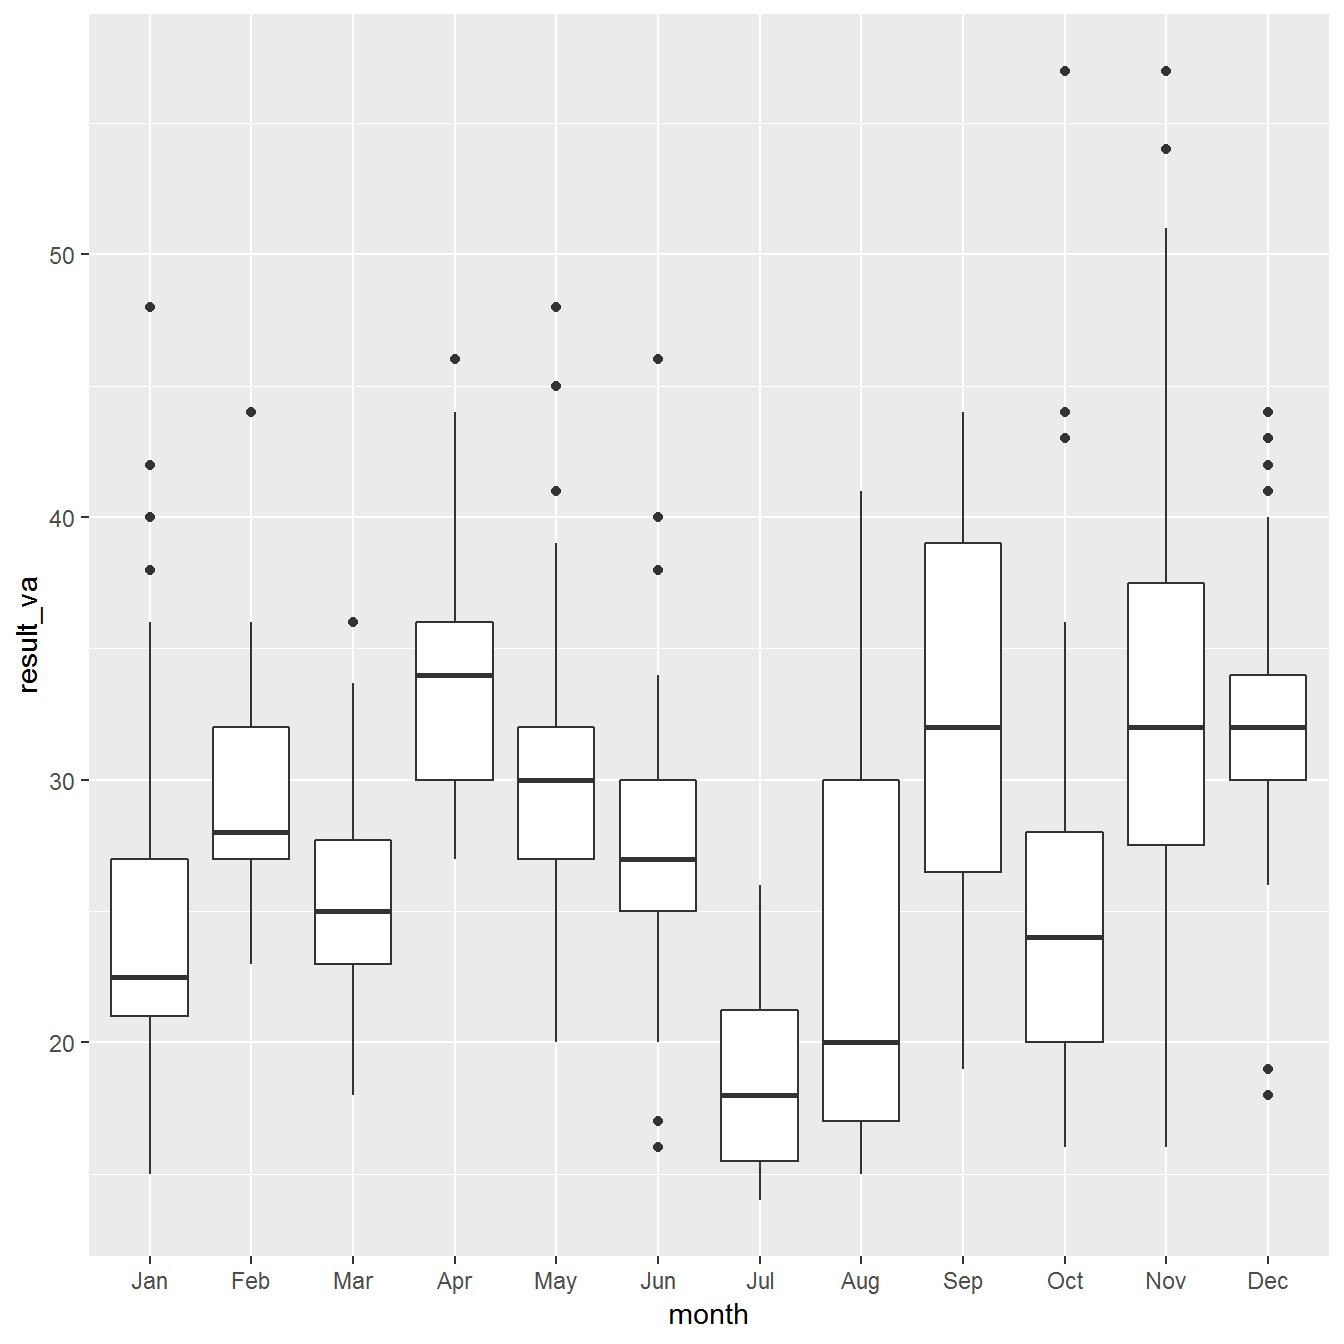
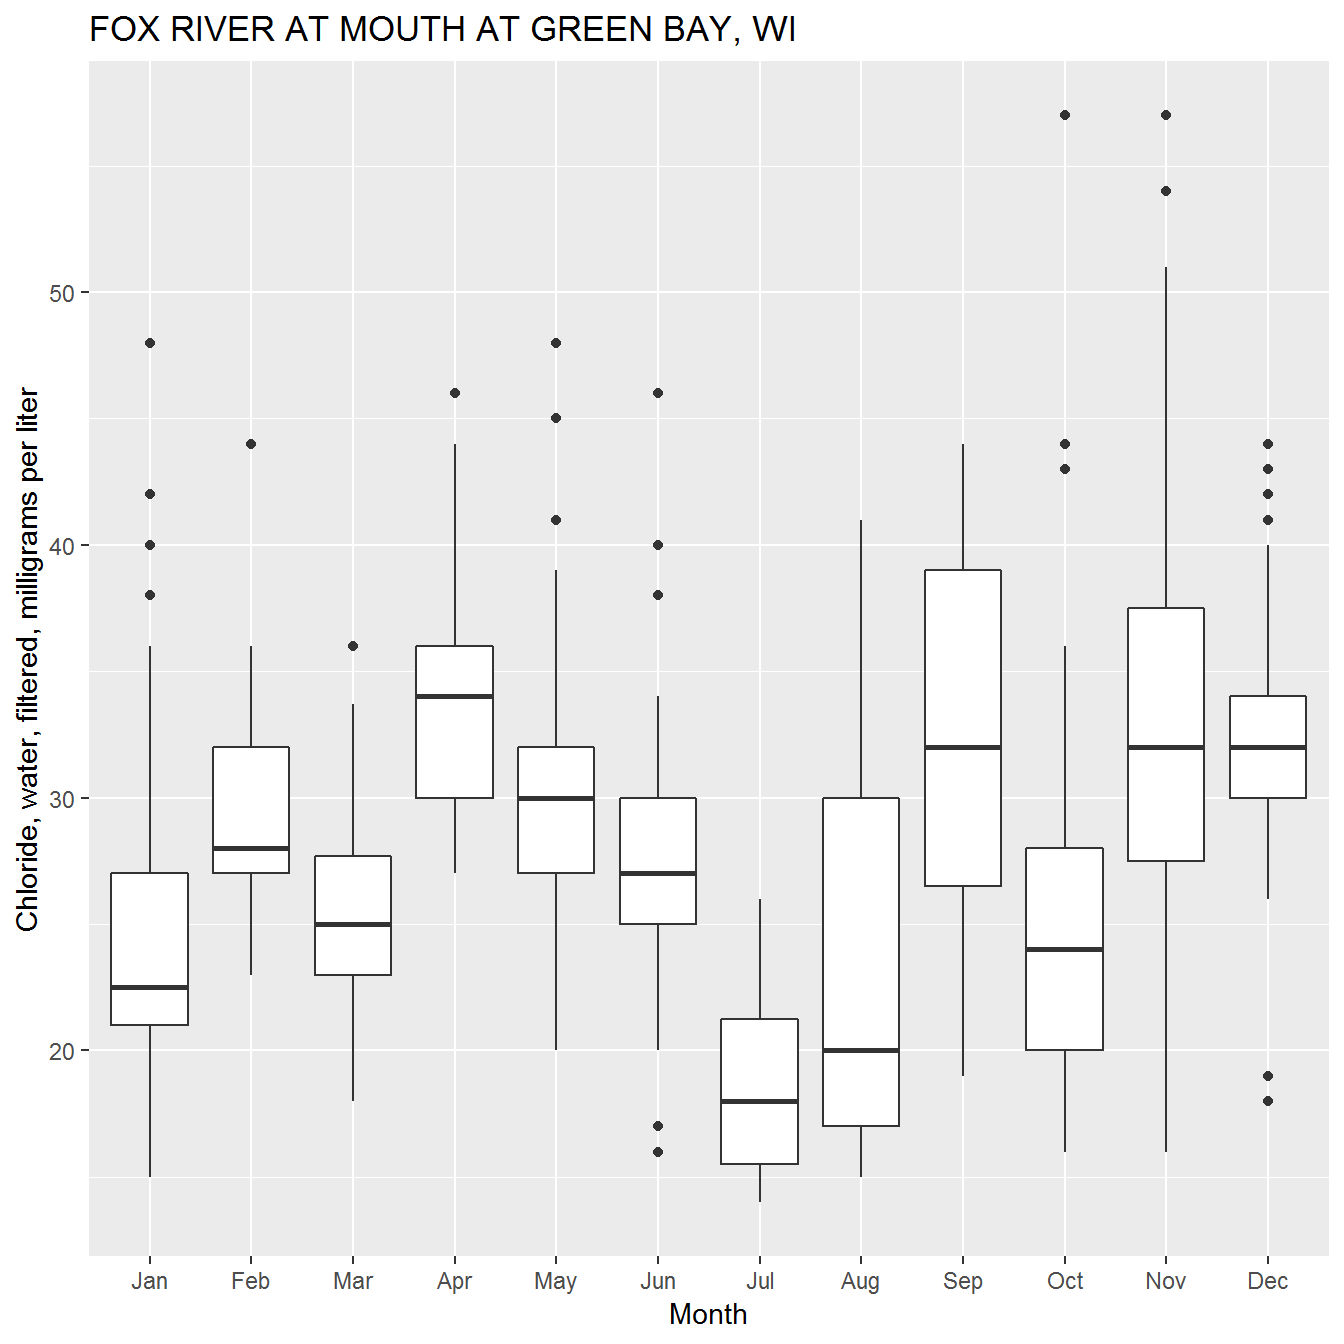
More tricks

diff --git a/content/boxplot_defs.md b/content/boxplot_defs.md
@@ -38,45 +38,33 @@ chloride <- readNWISqw("04085139", "00940")
 chloride$month <- month.abb[as.numeric(format(chloride$sample_dt, "%m"))]
 chloride$month <- factor(chloride$month, labels = month.abb)
 
-ggplot() +
-  geom_boxplot(data = chloride, aes(x = month, y = result_va))
+parameter_name <- attr(chloride, "variableInfo")[["parameter_nm"]]
+site_name <- attr(chloride, "siteInfo")[["station_nm"]]
+
+ggplot(data = chloride, 
+       aes(x = month, y = result_va)) +
+  geom_boxplot() +
+  xlab("Month") +
+  ylab(parameter_name) +
+  labs(title = site_name)
 ```
 
 <img src='/static/boxplots/getChoride-1.png'/ title='TODO' alt='TODO' />
 
-Now I'll use some code that will be described below to create the same plot, but getting closer to USGS style guidelines including a boxplot legend:
+Is that graph great? YES! But, there are times that certain style guidelines are mandated. For example, in the USGS, we have strict graphical requirements for official USGS reports. This blog is *not* going to get you perfect complience with those standards, but it will get a bit closer. So, let's use some code that will be described later to create the same plot, but getting closer to USGS style guidelines:
 
 ``` r
 library(cowplot)
-library(dplyr)
-
-counts <- chloride %>%
-  group_by(month) %>%
-  summarize(counts = n())
 
 legend_plot <- ggplot_box_legend()
 
-chloride_plot <- ggplot(data = chloride, aes(x = month, y = result_va)) +
-  stat_boxplot(geom ='errorbar', width = 0.6) +
-  geom_boxplot(width = 0.6, fill = "lightgrey") +
-  geom_text(data = counts, aes(x = month, y = 65, label = counts),
-            size = 3, family = "sans") +
-  expand_limits(y = 0) +
-  theme_bw() + 
+chloride_plot <- ggplot(data = chloride, 
+       aes(x = month, y = result_va)) +
+  boxplot_framework(upper_limit = 70, 
+                    x = chloride$result_va) + 
   xlab("Month") +
-  ylab(attr(chloride, "variableInfo")[["parameter_nm"]]) +
-  labs(title = attr(chloride, "siteInfo")[["station_nm"]]) +
-  scale_y_continuous(sec.axis = dup_axis(label = NULL, 
-                                         name = NULL),
-                     expand = expand_scale(mult = c(0, 0)),
-                     breaks = pretty(c(0,chloride$result_va, 70), n = 5), 
-                     limits = c(0,70)) +
-  theme(panel.grid = element_blank(),
-        text = element_text(family = "sans", size = 9),
-        axis.ticks.length = unit(-0.05, "in"),
-        axis.text.y = element_text(margin=unit(c(0.3,0.3,0.3,0.3), "cm")), 
-        axis.text.x = element_text(margin=unit(c(0.3,0.3,0.3,0.3), "cm")),
-        axis.ticks.x = element_blank()) 
+  ylab(parameter_name) +
+  labs(title = site_name)
 
 plot_grid(chloride_plot, 
           legend_plot,
@@ -192,7 +180,7 @@ Boxplot Visualization
 Let's plot that information, and while we're at it, we can make the function used in the first plot. There is a *lot* of `ggplot2` code to digest here. Most of it is style adjustments to approximate USGS style guidelines and requirements for legends. The `cowplot` package makes it easy to bind two or more `ggplot2` objects. We can make a
 
 ``` r
-ggplot_box_legend <- function(){
+ggplot_box_legend <- function(family = "sans"){
   set.seed(100)
 
   sample_df <- data.frame(parameter = "test",
@@ -205,6 +193,15 @@ ggplot_box_legend <- function(){
   
   ggplot_output <- ggplot2_boxplot(sample_df$values)
   
+  update_geom_defaults("text", 
+                     list(size = 3, 
+                          hjust = 0,
+                          family = family))
+  
+  update_geom_defaults("label", 
+                     list(size = 3, 
+                          hjust = 0,
+                          family = family))
   explain_plot <- ggplot() +
     stat_boxplot(data = sample_df,
                  aes(x = parameter, y=values),
@@ -212,11 +209,11 @@ ggplot_box_legend <- function(){
     geom_boxplot(data = sample_df,
                  aes(x = parameter, y=values), 
                  width = 0.3, fill = "lightgrey") +
-    geom_text(aes(x = 1, y = 950, label = "500"), size = 3) +
+    geom_text(aes(x = 1, y = 950, label = "500"), hjust = 0.5) +
     geom_text(aes(x = 1.17, y = 950,
                   label = "Number of values"),
-              fontface = "bold", hjust = 0, vjust = 0.4, size = 3) +
-    theme_minimal(base_size = 5) +
+              fontface = "bold", vjust = 0.4) +
+    theme_minimal(base_size = 5, base_family = family) +
     geom_segment(aes(x = 2.3, xend = 2.3, 
                      y = ggplot_output[["quartiles"]][1], 
                      yend = ggplot_output[["quartiles"]][3])) +
@@ -228,34 +225,33 @@ ggplot_box_legend <- function(){
                      yend = ggplot_output[["quartiles"]][3])) +
     geom_text(aes(x = 2.4, y = ggplot_output[["quartiles"]][2]), 
               label = "Interquartile\nrange", fontface = "bold",
-              hjust = 0, vjust = 0.4, size = 3) +
+              vjust = 0.4) +
     geom_text(aes(x = c(1.17,1.17), 
                   y = c(ggplot_output[["upper_whisker"]],
                         ggplot_output[["lower_whisker"]]), 
                   label = c("Largest value within 1.5 times\ninterquartile range above\n75th percentile",
                             "Smallest value within 1.5 times\ninterquartile range below\n25th percentile")),
-                  fontface = "bold", hjust = 0, vjust = 0.9, size = 3) +
+                  fontface = "bold", vjust = 0.9) +
     geom_text(aes(x = c(1.17), 
                   y =  ggplot_output[["lower_dots"]], 
                   label = "Outside value"), 
-              hjust = 0, vjust = 0.5, fontface = "bold", size = 3) +
+              vjust = 0.5, fontface = "bold") +
     geom_text(aes(x = c(2.1), 
                   y =  ggplot_output[["lower_dots"]], 
                   label = "-Value is >1.5 times and"), 
-              hjust = 0, vjust = 0.5, size = 3) +
+              vjust = 0.5) +
     geom_text(aes(x = 1.17, 
                   y = ggplot_output[["lower_dots"]], 
                   label = "<3 times the interquartile range\nbeyond either end of the box"), 
-              hjust = 0, vjust = 1.5, size = 3) +
+              vjust = 1.5) +
     geom_label(aes(x = 1.17, y = ggplot_output[["quartiles"]], 
                   label = names(ggplot_output[["quartiles"]])),
-              vjust = c(0.4,0.85,0.4), hjust = 0, 
-              fill = "white", label.size = 0, size = 3) +
+              vjust = c(0.4,0.85,0.4), 
+              fill = "white", label.size = 0) +
     ylab("") + xlab("") +
     theme(axis.text = element_blank(),
           axis.ticks = element_blank(),
           panel.grid = element_blank(),
-          text = element_text(family = "sans"),
           plot.title = element_text(hjust = 0.5, size = 10),
           plot.margin = unit(c(1,0,1,0), "cm")) +
     coord_cartesian(xlim = c(1.4,3.1), ylim = c(-600, 1000)) +
@@ -273,6 +269,7 @@ ggplot_box_legend()
 For another example, let's take a quick look at some data included in the `dplyr` package:
 
 ``` r
+library(dplyr)
 explain_plot <- ggplot_box_legend()
 
 starwars <- starwars
@@ -283,21 +280,8 @@ starwars <- starwars %>%
   filter(n() > 5)
 
 size_dist <- ggplot(data = starwars, aes(x = homeworld, y = mass)) +
-  stat_boxplot(geom ='errorbar', width = 0.3) +
-  geom_boxplot(width = 0.3, fill = "lightgrey") +
-  expand_limits(y = 0) +
-  theme_bw() + 
-  scale_y_continuous(sec.axis = dup_axis(label = NULL, 
-                                         name = NULL),
-                     expand = expand_scale(mult = c(0, 0.01)),
-                     breaks = pretty(starwars$mass, n = 5)) +
-  theme(panel.grid = element_blank(),
-        plot.title = element_text(hjust = 0.5),
-        text = element_text(family = "Times", size = 9),
-        axis.ticks.length = unit(-0.25, "cm"),
-        axis.text.y = element_text(margin=unit(c(0.5,0.5,0.5,0.5), "cm")), 
-        axis.text.x = element_text(margin=unit(c(0.5,0.5,0.5,0.5), "cm")),
-        axis.ticks.x = element_blank()) 
+  boxplot_framework(upper_limit = 150, 
+                    x = starwars$mass) 
 
 plot_grid(size_dist, 
           explain_plot,
